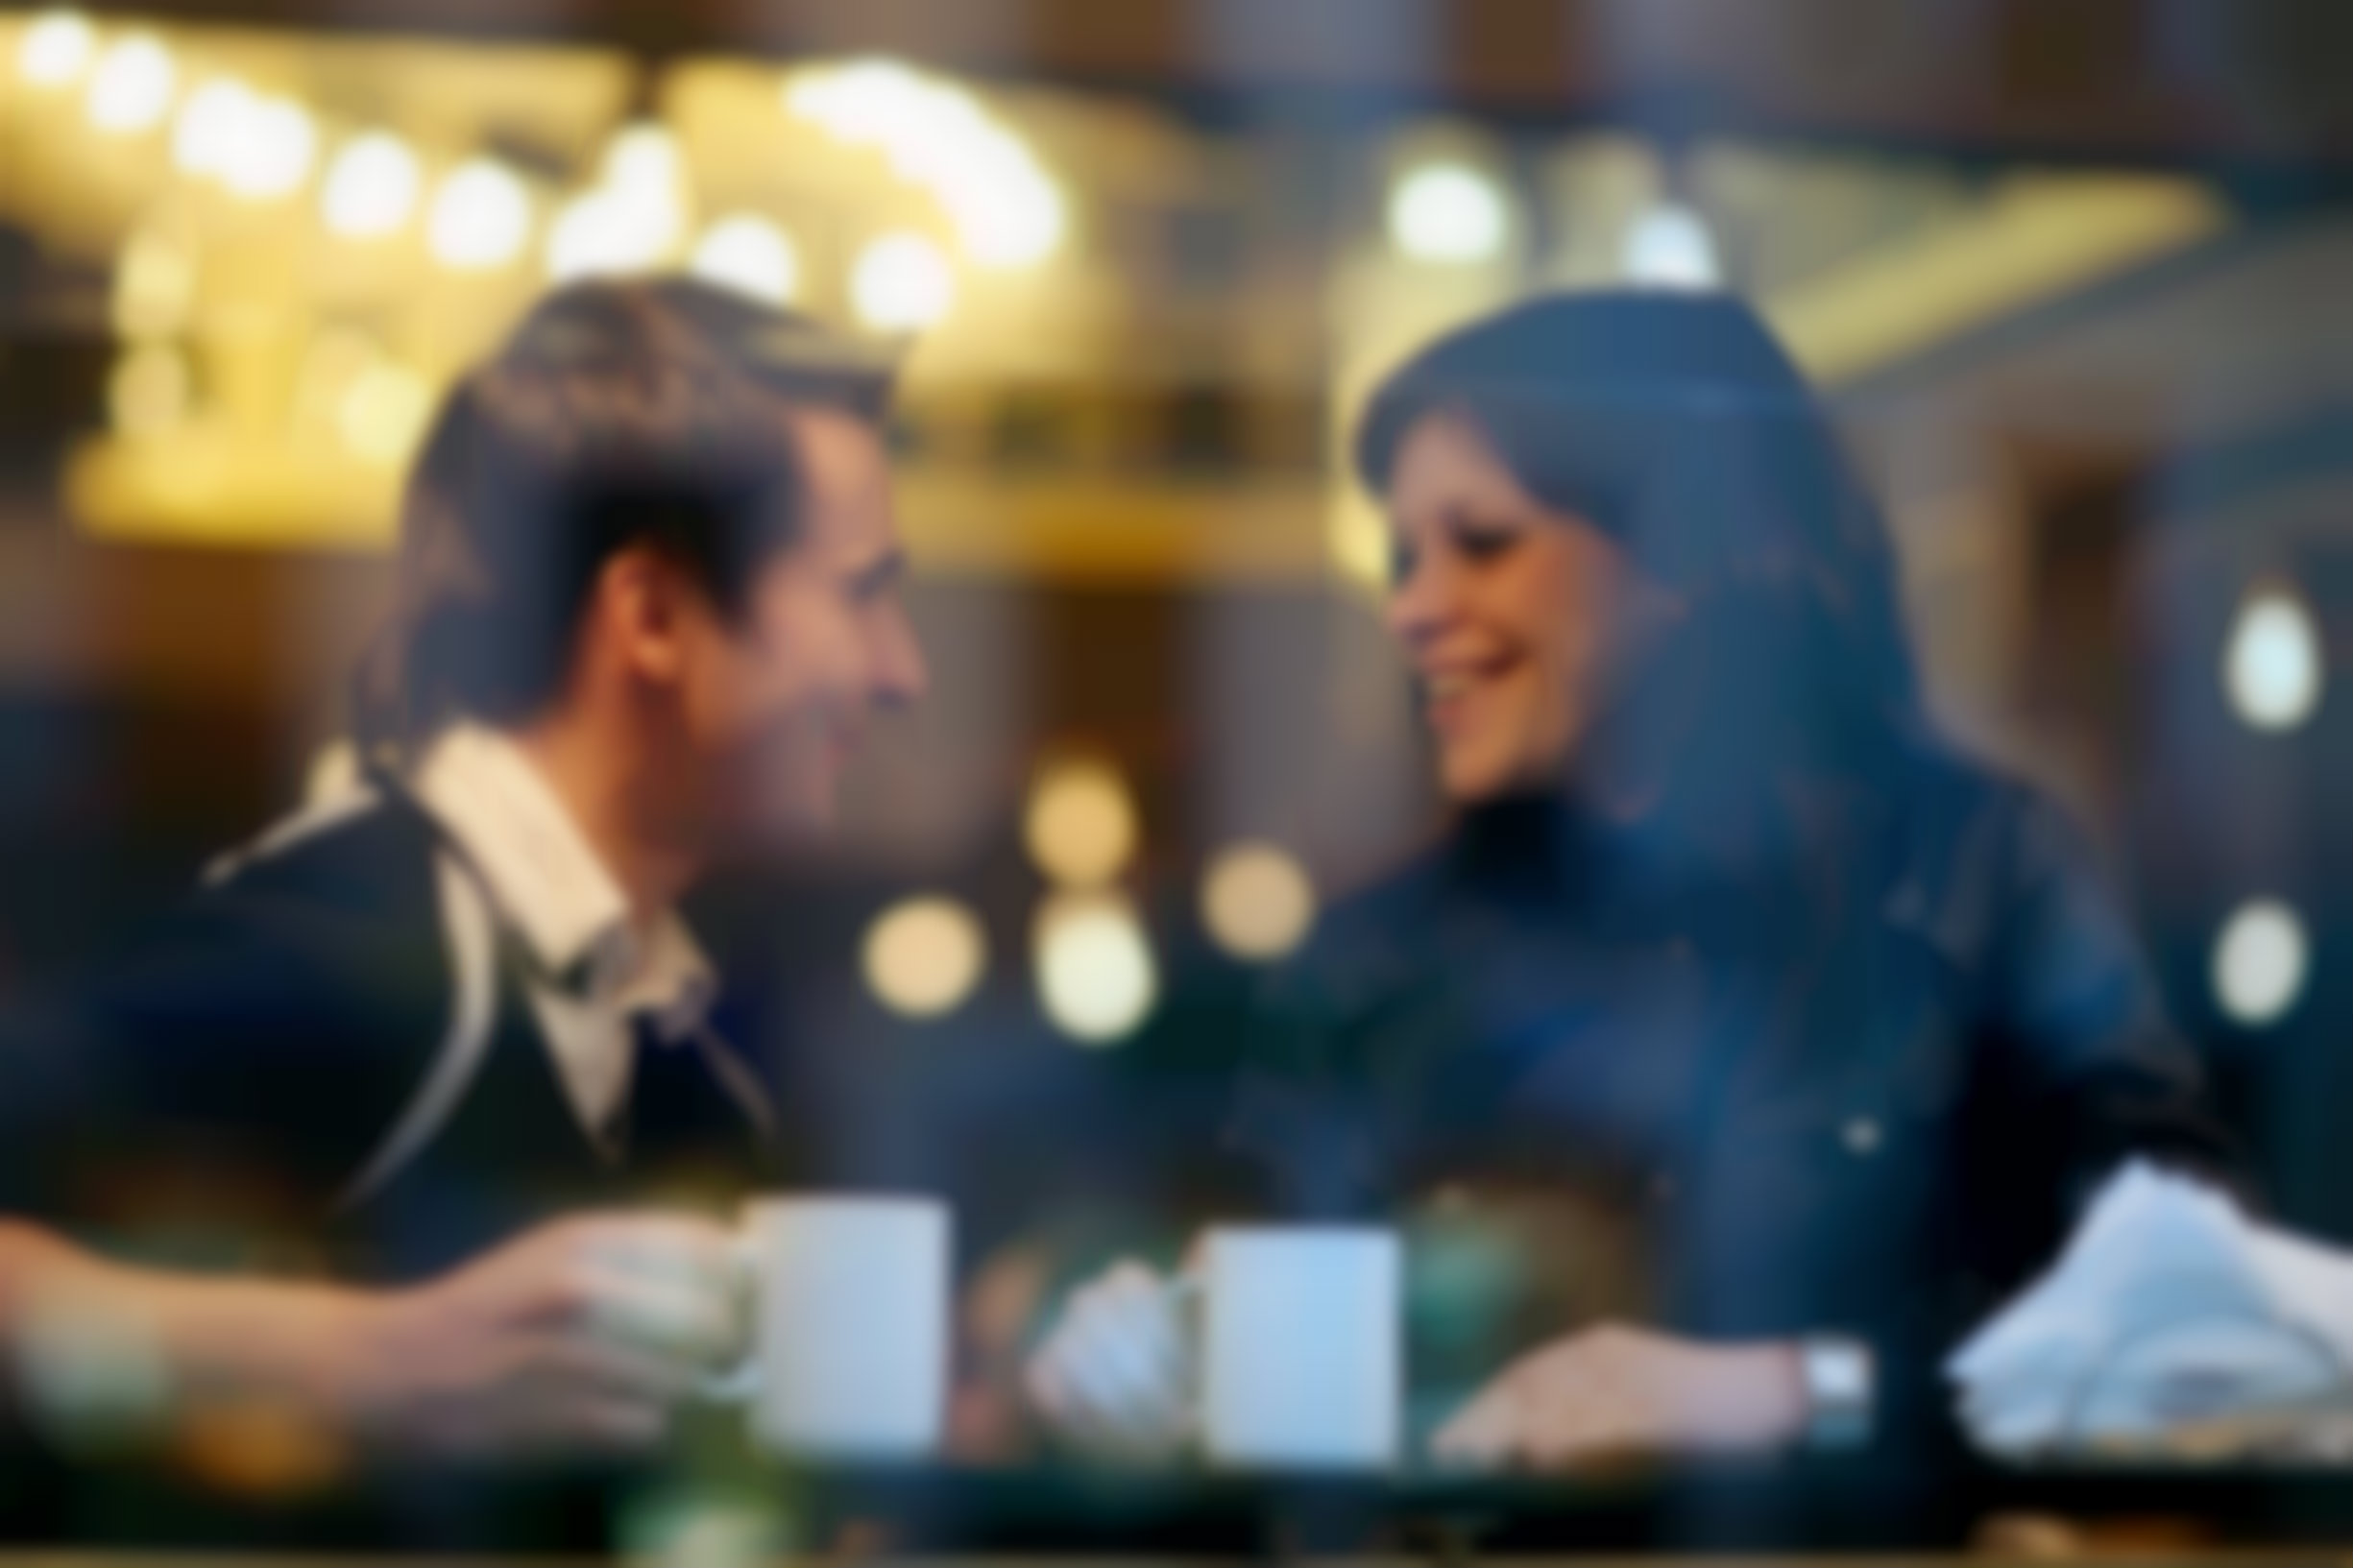
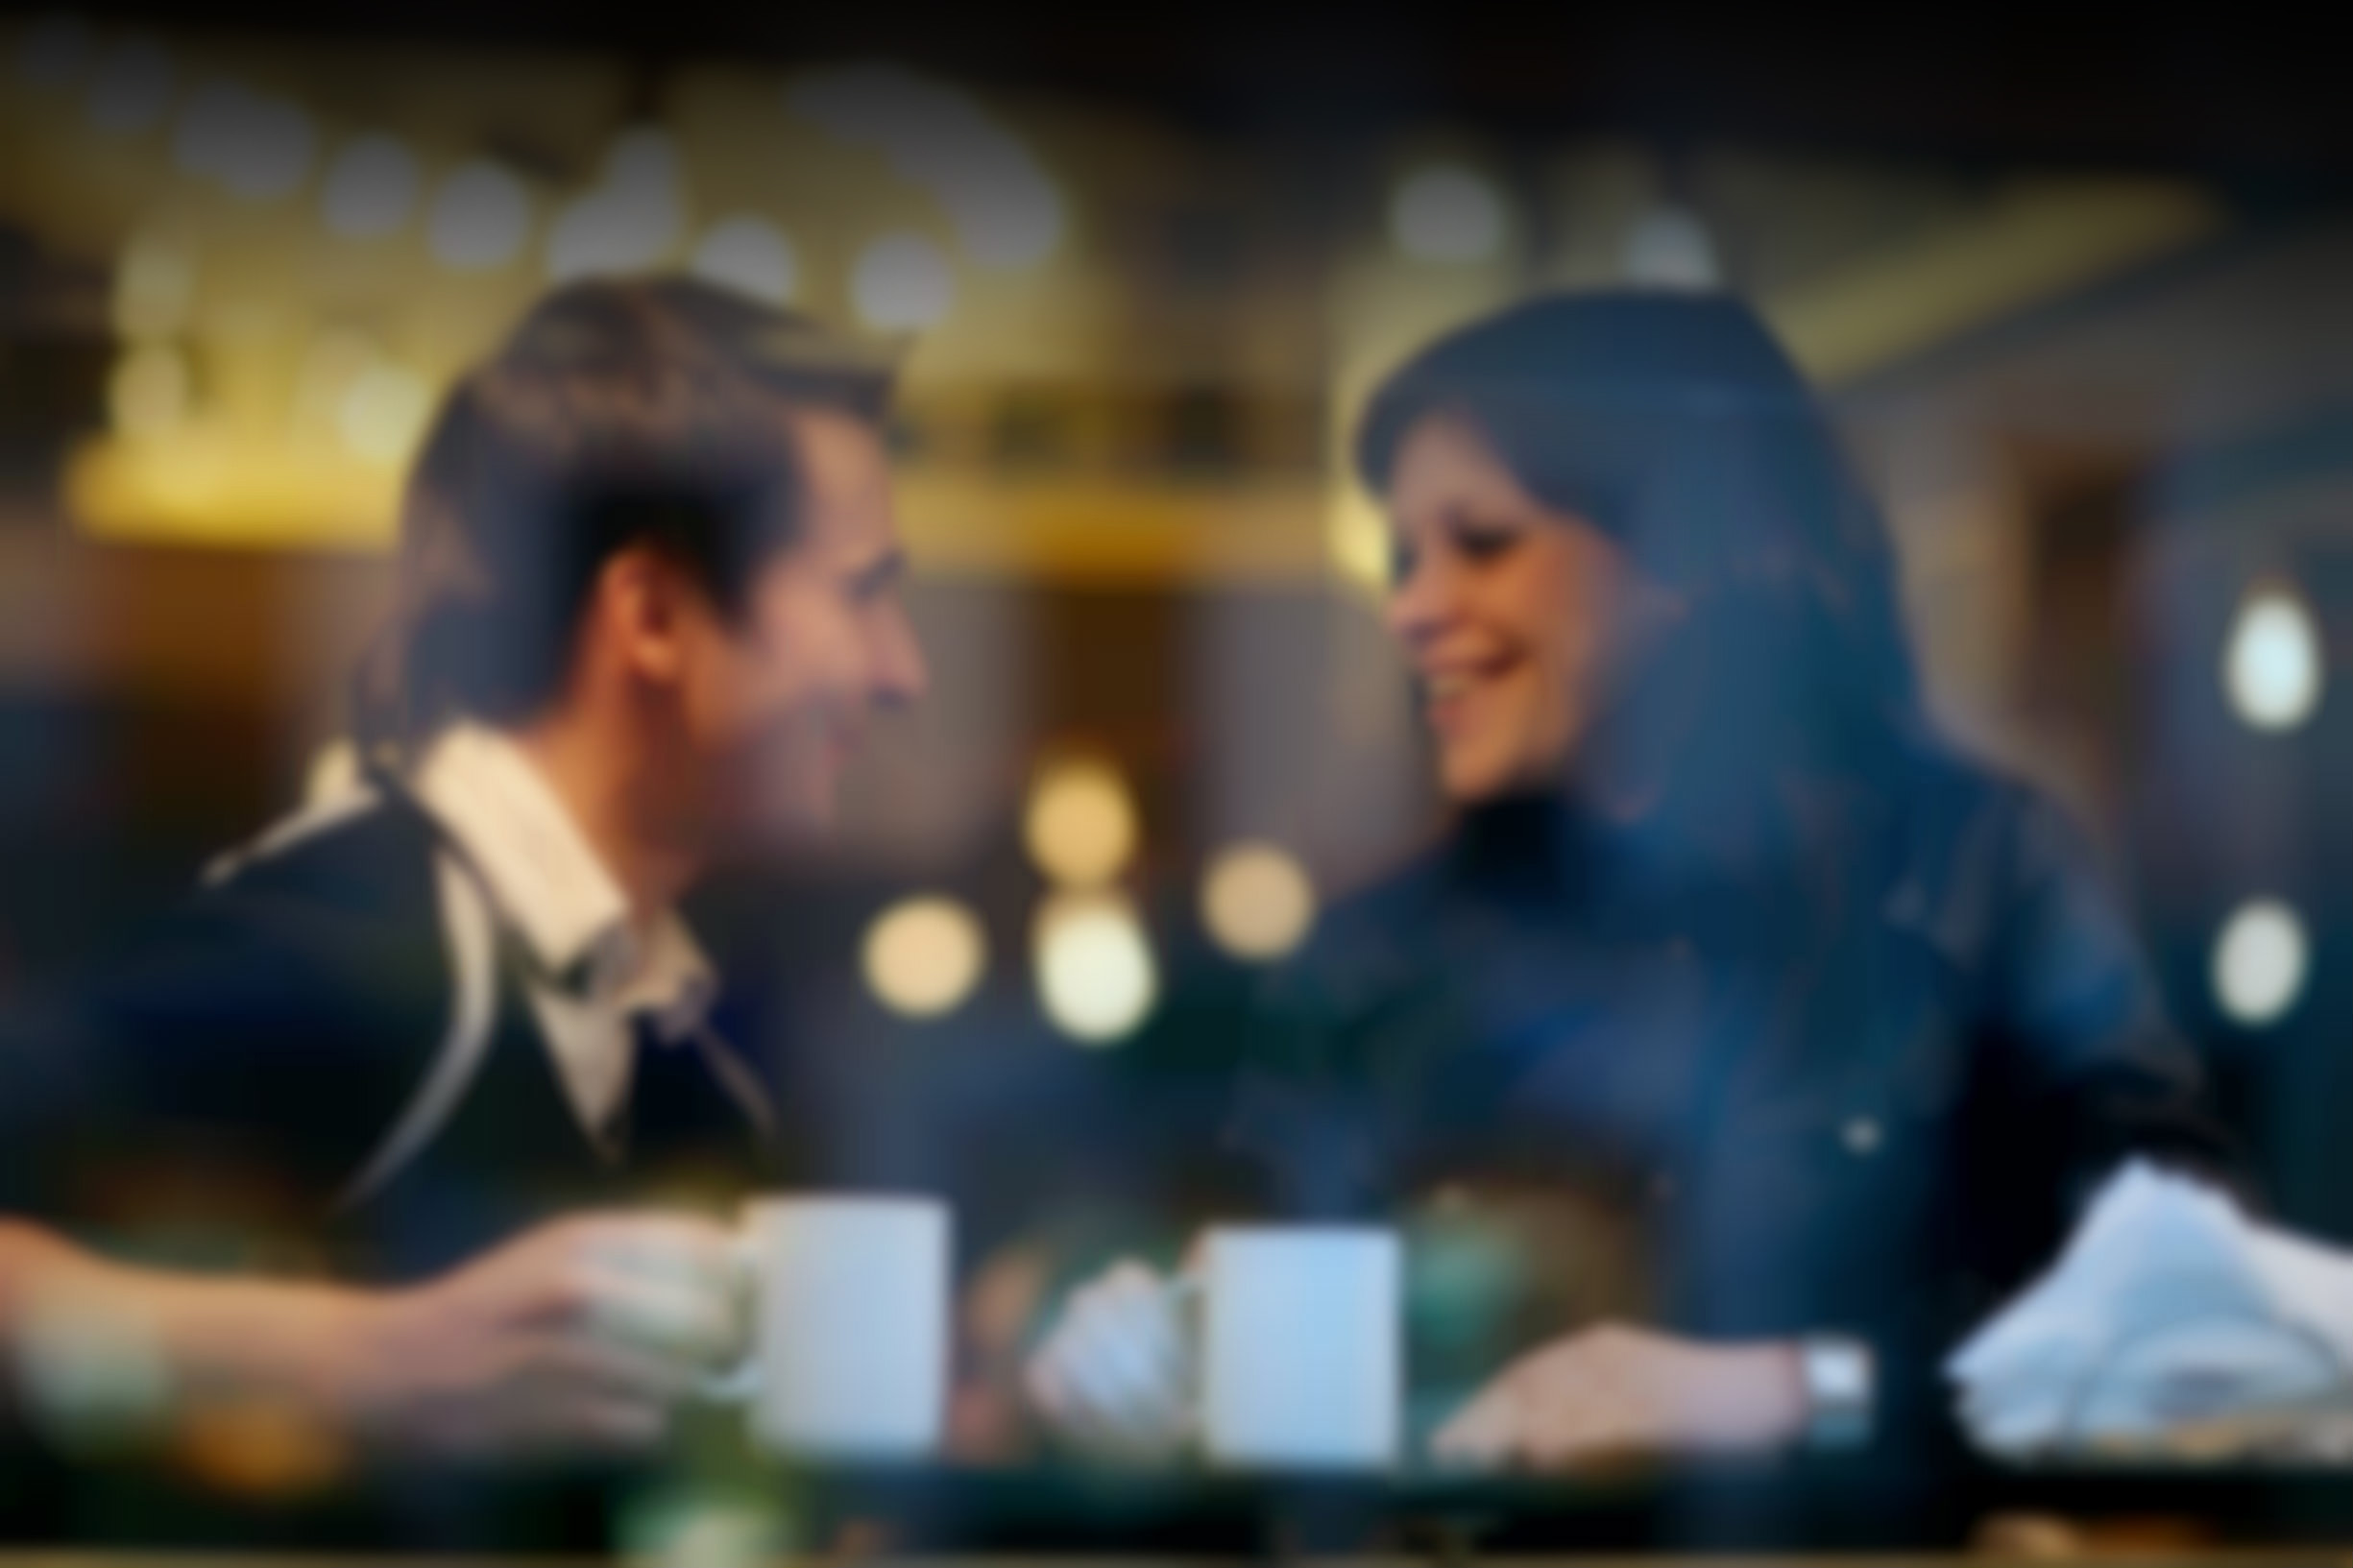
Refined layout intro page

Changed region(s): [[0.0, 0.0, 1.0, 0.3123]]

diff --git a/src/Chirping.Web/gulp/config.js b/src/Chirping.Web/gulp/config.js
@@ -29,21 +29,28 @@ module.exports = {
   },
 
   less: {
-    src: [
-      '!' + src + '/less/vendor/bootstrap.less',
-      src + '/less/**/*.less'
-    ],
-    dest: dest + '/css',
-    vendor: {
-      src: src + '/less/vendor/bootstrap.less',
+    development: {
+      src: [
+          src + '/less/**/*.less'
+      ],
       dest: dest + '/css'
+    },
+    optimized: {
+      src: [
+          '!' + src + '/less/vendor/bootstrap.less',
+          src + '/less/**/*.less'
+      ],
+      dest: dest + '/css',
+      vendor: {
+        src: src + '/less/vendor/bootstrap.less',
+        dest: dest + '/css'
+      }
     }
   },
 
   css: {
     src: [
-      src + '/bower_modules/qtip2/jquery.qtip.min.css',
-      src + '/bower_modules/animate.css/animate.min.css'
+      src + '/bower_modules/qtip2/jquery.qtip.min.css'
       ]
   },
   autoprefixer: {
@@ -115,7 +122,7 @@ module.exports = {
   // specifies the which files trigger the watch mechanism
   watch: {
     less: [
-      '!' + src + '/less/vendor/bootstrap.less',
+      //'!' + src + '/less/vendor/bootstrap.less',
       src + '/less/**/*.less'
     ],
     scripts: src + '/**/*.js',
@@ -179,21 +186,26 @@ module.exports = {
         },
         include: [
             'requireLib',
-            'components/intro-page/intro-page',
+            'pages/intro-page/intro-page',
             'components/user-bar/user-bar',
             'components/login-bar/login-bar'
         ],
         insertRequire: ['app/startup'],
         bundles: {
+          'register-container': [
+            'components/register-container/register-container',
+            'components/login-bar/login-bar',
+            'components/forgot-password/forgot-password'
+          ],
           'registration-page': [
             'services/auth-service',
             'services/auth-storage',
             'services/chunked-uploader',
-            'components/registration-page/registration-page',
-            'components/registration-page/profile-image-upload/profile-image-upload',
-            'components/registration-page/wizard-step1/wizard-step1',
-            'components/registration-page/wizard-step2/wizard-step2',
-            'components/registration-page/wizard-step3/wizard-step3'
+            'components/registration-bar/registration-bar',
+            'components/registration-bar/profile-image-upload/profile-image-upload',
+            'components/registration-bar/wizard-step1/wizard-step1',
+            'components/registration-bar/wizard-step2/wizard-step2',
+            'components/registration-bar/wizard-step3/wizard-step3'
           ],
           'auth-complete': ['authentication/auth-complete']
         }

diff --git a/src/Chirping.Web/src/pages/intro-page/intro-page.html b/src/Chirping.Web/src/pages/intro-page/intro-page.html
@@ -1,13 +1,24 @@
-<div id="intro-page-top-beam">
+<div class="intro-page-top-beam">
     <div class="logo-text">
         <p>&lt;3 chirping</p>
     </div>
-
-    <div id="intro-page-nav">
-        <ul class="pull-right nav nav-pills">
-            <li role="alert"><a href="#register">Register</a></li>
-            <li role="presentation"><a href="#login">Login</a></li>
-        </ul>
+    <div class="pull-right">
+        <a href="#Register" class="btn btn-shine-through">Register</a>
+        <a href="#Login" class="btn btn-shine-through">Login</a>
     </div>
 </div>
-<div id="selectedComponent" data-bind="component: { name: 'register-container', params: getComponentParams() }"></div>
+<div class="intro-page-content text-center">
+    <h1>One place for all the <br />importance in your life</h1>
+    <br /><br />
+    <div class="row">
+        <div class="col-md-3"></div>
+        <div class="col-md-6">
+            <h4>
+                Lorem ipsum dolor sit amet, consectetuer adipiscing elit. Aenean commodo ligula eget dolor. Aenean massa.
+                Cum sociis natoque penatibus et magnis dis parturient montes, nascetur ridiculus mus. Donec quam felis, ultricies nec
+            </h4>
+        </div>
+        <div class="col-md-3"></div>
+    </div>
+</div>
+<div id="component"></div>

diff --git a/src/Chirping.Web/src/index.html b/src/Chirping.Web/src/index.html
@@ -5,16 +5,16 @@
         <meta charset="utf-8">
         <meta http-equiv="X-UA-Compatible" content="IE=edge">
         <title>Chirping.nl</title>
-        
-        <!-- build:css -->
-            <link href="css/styles.css" rel="stylesheet">
-        <!-- endbuild -->
 
         <!-- build:vendor-css -->
-            <link href="bower_modules/components-bootstrap/css/bootstrap.min.css" rel="stylesheet">
-            <link href="bower_modules/qtip2/jquery.qtip.min.css" rel="stylesheet" />
-            <link href="bower_modules/bootstrap-dialog/dist/css/bootstrap-dialog.min.css" rel="stylesheet" />
-            <link href="bower_modules/jcrop/css/jquery.Jcrop.min.css" rel="stylesheet" />
+        <link href="bower_modules/components-bootstrap/css/bootstrap.min.css" rel="stylesheet">
+        <link href="bower_modules/qtip2/jquery.qtip.min.css" rel="stylesheet" />
+        <link href="bower_modules/bootstrap-dialog/dist/css/bootstrap-dialog.min.css" rel="stylesheet" />
+        <link href="bower_modules/jcrop/css/jquery.Jcrop.min.css" rel="stylesheet" />
+        <!-- endbuild -->
+
+        <!-- build:css -->
+            <link href="css/styles.css" rel="stylesheet">
         <!-- endbuild -->
 
         <!-- build:js -->

diff --git a/src/Chirping.Web/src/pages/intro-page/intro-page.js b/src/Chirping.Web/src/pages/intro-page/intro-page.js
@@ -6,31 +6,25 @@ define(['knockout', 'text!./intro-page.html', 'qtip2'], function (ko, templateMa
 
     self.component = ko.observable(params.component);
 
-    // get browsed component (default to login-bar)
-    self.getActiveComponent = function () {
-
-      if (self.component() == null) {
-        return 'login-bar';
-      } else {
-        return self.component();
-      }
-    };
-
     // define the size of the container based on the chosen component
     self.getContainerSize = function () {
-      
       if (self.component() === 'register') {
         return 'big';
       }
-
     };
 
+    // returns the parameters of the browsed component in string format
     self.getComponentParams = function () {
-      return {
-        component: self.getActiveComponent(),
+      return JSON.stringify({
+        component: self.component(),
         containerSize: self.getContainerSize()
-      }
+      });
     };
+
+    // draw the html of the browsed component
+    if (self.component() != null) {
+      $('#component').append("<register-container params='" + self.getComponentParams() + "'><register-container>");
+    }
   }
   
   return { viewModel: IntroPage, template: templateMarkup };

diff --git a/src/Chirping.Web/src/less/pages/intro-page.less b/src/Chirping.Web/src/less/pages/intro-page.less
@@ -1,29 +1,26 @@
 body {
-    background: url(../../images/backgrounds/background4.jpg) no-repeat center center fixed;
+    background: url(../../images/backgrounds/background3.jpg) no-repeat center center fixed;
     -webkit-background-size: cover;
     -moz-background-size : cover;
     -o-background-size: cover;
     background-size: cover;
 }
 
-#intro-page-top-beam {
+.intro-page-top-beam {
     z-index:0;  
+    padding: 0px 10px 0px 0px;
     position:absolute;
+    line-height: 75px;
     width:100%;
-    height:50px;
+    height:75px;
+    background-color: transparent;
 }
 
-#intro-page-nav {
-    padding-right:200px;
+.intro-page-content {
+    font-family: Segoe UI, Segoe Semilight, Segoe,Arial, sans-serif;
+    font-weight:100;
+    position: absolute;
+    top: 100px;
+    margin:10px 10px 10px 10px;
+    color:white;
 }
-
-#intro-page-nav a {
-    font-weight:bold;
-    color: white;
-}
-
-#intro-page-nav a:hover {
-    color:#4e4e4e;
-}
-
-

diff --git a/src/Chirping.Web/src/less/styles.less b/src/Chirping.Web/src/less/styles.less
@@ -50,26 +50,11 @@ input[type=password] {
     background-color: #7b7b7b;
 }
 
-
-/* logo on the header */
-#logo {
-    position: relative;
-    top: 30px;
-    width: 200px;
-    height: 75px;
-    padding-top: 50px;
-    margin: 0 auto;
-    background-image: url(/images/CatchLogo.jpg);
-    background-repeat: no-repeat;
-}
-
 .logo-text {
     position:absolute;
-    top: 10px;
     left: 15px;
-    font-family: 'Trebuchet MS', 'Lucida Sans Unicode', 'Lucida Grande', 'Lucida Sans', Arial, sans-serif;
-    font-size: 25px;
-    font-weight:bold;
+    font-family: Segoe UI, Segoe Semilight, Segoe,Arial, sans-serif;
+    font-size: x-large;
     color:white;
     text-align:center;
 }
@@ -97,3 +82,6 @@ input[type=password] {
 #loginBar th, td {
     padding: 5px;
 }
+
+
+

diff --git a/src/Chirping.Web/gulp/tasks/dev-optimized-build/optimize-less.js b/src/Chirping.Web/gulp/tasks/dev-optimized-build/optimize-less.js
@@ -3,17 +3,17 @@ var less = require('gulp-less');
 var gulpFilter = require('gulp-filter');
 var autoprefixer = require('gulp-autoprefixer');
 var sourcemaps = require('gulp-sourcemaps');
-var config = require('../../config').less.development;
+var config = require('../../config').less.optimized;
 
 // add plugins for piping css files
 var concat = require('gulp-concat');
 var es = require('event-stream');
 
-gulp.task('less', function () {
+gulp.task('less:optimized', function () {
 
   // Don’t write sourcemaps of sourcemaps
   var filter = gulpFilter(['*.css', '!*.map']);
-  
+
   var lessFiles = gulp.src(config.src)
     .pipe(less())
     .pipe(sourcemaps.init())

diff --git a/src/Chirping.Web/src/components/register-container/register-container.js b/src/Chirping.Web/src/components/register-container/register-container.js
@@ -1,0 +1,25 @@
+define(['knockout', 'text!./register-container.html'], function(ko, templateMarkup) {
+
+  function RegisterContainer(params) {
+ 
+    var self = this;
+    
+    self.activeComponent = ko.observable(params.component);
+    
+    setContainerSize(params.containerSize);
+
+    self.closeComponent = function () {
+
+    };
+  }
+
+  function setContainerSize(containerSize) {
+    if (containerSize === 'big') {
+      $('#register-container').removeClass('unregistered-container-small');
+      $('#register-container').addClass('unregistered-container-big');
+    }
+  }
+  
+  return { viewModel: RegisterContainer, template: templateMarkup };
+
+});

diff --git a/src/Chirping.Web/src/less/components/register-container.less b/src/Chirping.Web/src/less/components/register-container.less
@@ -1,8 +1,18 @@
-.unregistered-container {
-    z-index:900;
+// 
+.page-wrap {
+    position:fixed;
+    z-index: 1;
+    background-color: black;
+    opacity: 0.5;
+    width:100%;
+    height:100vh;
+}
+
+.unregistered-container {
+    position:relative;
+    z-index:99900;
     height: 100vh;
-    background-color: rgba(255, 255, 255, 0.65);
-    fill-opacity: 0.5;
+    background-color: rgba(255, 255, 255, 0.95);
 }
 
 .unregistered-container-small {

diff --git a/src/Chirping.Web/gulp/tasks/dev-optimized-build/less-vendor.js b/src/Chirping.Web/gulp/tasks/dev-optimized-build/less-vendor.js
@@ -1,7 +1,7 @@
 var gulp = require('gulp');
 var less = require('gulp-less');
 var autoprefixer = require('gulp-autoprefixer');
-var config = require('../../config').less.vendor;
+var config = require('../../config').less.optimized.vendor;
 var cssConfig = require('../../config').css;
 
 // add plugins for piping vendor css files

diff --git a/src/Chirping.Web/gulp/tasks/dev-build/build.js b/src/Chirping.Web/gulp/tasks/dev-build/build.js
@@ -3,7 +3,7 @@ var runSequence = require('run-sequence');
 
 // run all gulp tasks to build the application in a specific order
 gulp.task('build', function (callback) {
-  runSequence('delete', 'less:vendor','copy:scripts:vendor',
+  runSequence('delete', 'copy:scripts:vendor',
   [
     'copy:scripts',
     'less',

diff --git a/src/Chirping.Web/src/components/register-container/register-container.html b/src/Chirping.Web/src/components/register-container/register-container.html
@@ -1,3 +1,4 @@
-<div id="register-container" class="unregistered-container-small center-block">
+<div class="page-wrap" data-bind="click: closeComponent()"></div>
+<div class="unregistered-container-small center-block">
     <div id="selectedComponent" data-bind="component: activeComponent"></div>
 </div>
